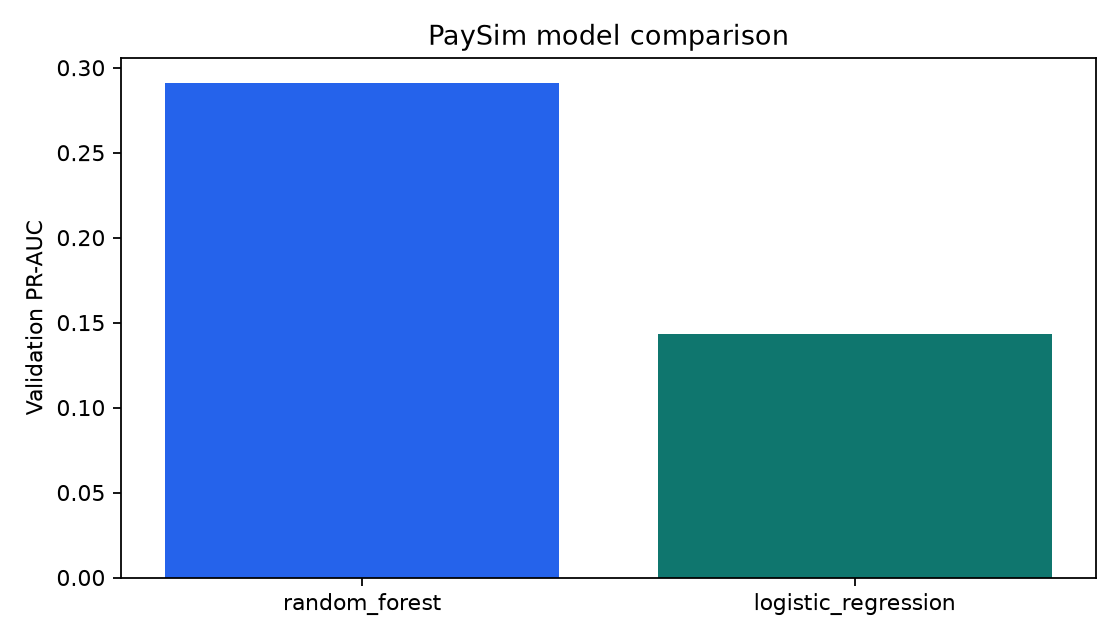
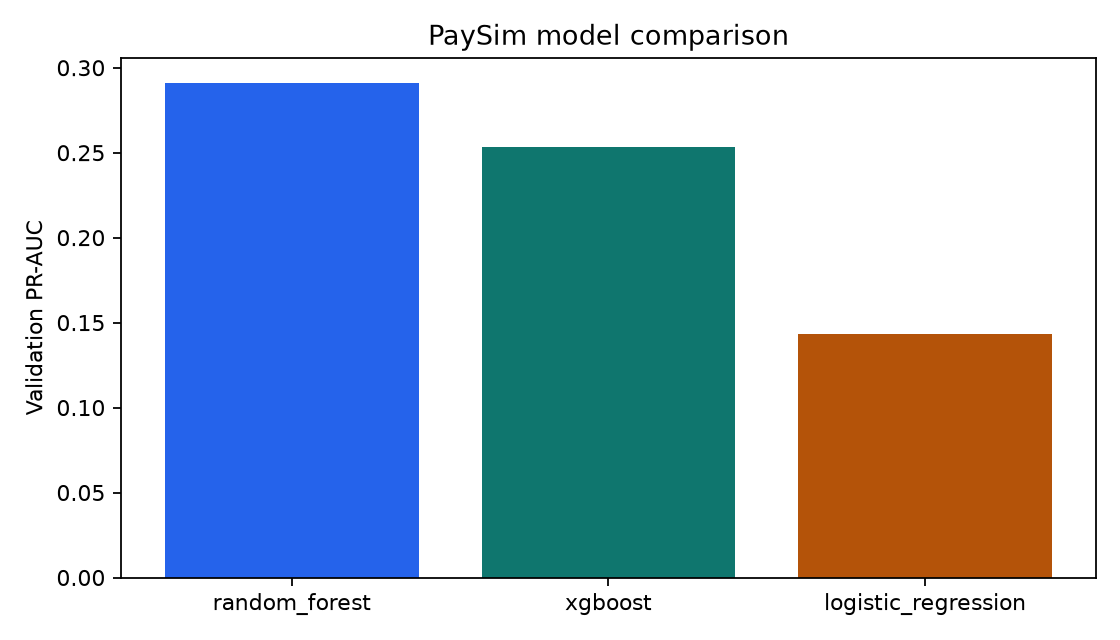
feat: compare XGBoost fraud classifier

Changed region(s): [[0.375, 0.125, 0.9375, 0.9688], [0.1875, 0.9062, 0.4062, 0.9688], [0.5, 0.9375, 0.5938, 0.9688]]

diff --git a/src/paysim_fraud/training.py b/src/paysim_fraud/training.py
@@ -15,6 +15,7 @@ from sklearn.linear_model import LogisticRegression
 from sklearn.metrics import ConfusionMatrixDisplay, PrecisionRecallDisplay
 from sklearn.pipeline import Pipeline
 from sklearn.preprocessing import OneHotEncoder, StandardScaler
+from xgboost import XGBClassifier
 
 from .config import PROJECT_ROOT, load_config
 from .data import MODEL_COLUMNS, load_raw, prepare_splits, save_processed
@@ -43,7 +44,7 @@ def build_preprocessor() -> ColumnTransformer:
     )
 
 
-def candidate_models(config: dict) -> dict[str, Pipeline]:
+def candidate_models(config: dict, positive_weight: float = 1.0) -> dict[str, Pipeline]:
     seed = int(config["random_seed"])
     return {
         "logistic_regression": Pipeline(
@@ -75,6 +76,29 @@ def candidate_models(config: dict) -> dict[str, Pipeline]:
                 ),
             ]
         ),
+        "xgboost": Pipeline(
+            [
+                ("preprocessor", build_preprocessor()),
+                (
+                    "classifier",
+                    XGBClassifier(
+                        n_estimators=int(config["xgboost_estimators"]),
+                        max_depth=int(config["xgboost_max_depth"]),
+                        learning_rate=float(config["xgboost_learning_rate"]),
+                        min_child_weight=5,
+                        subsample=0.85,
+                        colsample_bytree=0.85,
+                        reg_lambda=2.0,
+                        scale_pos_weight=positive_weight,
+                        objective="binary:logistic",
+                        eval_metric="aucpr",
+                        tree_method="hist",
+                        n_jobs=4,
+                        random_state=seed,
+                    ),
+                ),
+            ]
+        ),
     }
 
 
@@ -87,7 +111,8 @@ def fit_candidates(
     probabilities = {}
     thresholds = {}
     rows = []
-    for name, model in candidate_models(config).items():
+    positive_weight = float((y_train == 0).sum() / max(1, (y_train == 1).sum()))
+    for name, model in candidate_models(config, positive_weight).items():
         model.fit(x_train, y_train)
         probability = model.predict_proba(x_validation)[:, 1]
         threshold = best_f1_threshold(y_validation, probability)
@@ -120,7 +145,9 @@ def save_plots(
     output_dir.mkdir(parents=True, exist_ok=True)
 
     figure, axis = plt.subplots(figsize=(7, 4))
-    axis.bar(comparison["model"], comparison["pr_auc"], color=["#2563eb", "#0f766e"])
+    axis.bar(
+        comparison["model"], comparison["pr_auc"], color=["#2563eb", "#0f766e", "#b45309"]
+    )
     axis.set_ylabel("Validation PR-AUC")
     axis.set_title("PaySim model comparison")
     figure.tight_layout()
@@ -177,10 +204,14 @@ def train(config_path: str | Path) -> dict:
 
     x_train, y_train = splits["train"]
     x_validation, y_validation = splits["validation"]
-    production_model = candidate_models(config)[winner]
+    development_target = pd.concat([y_train, y_validation], ignore_index=True)
+    development_weight = float(
+        (development_target == 0).sum() / max(1, (development_target == 1).sum())
+    )
+    production_model = candidate_models(config, development_weight)[winner]
     production_model.fit(
         pd.concat([x_train, x_validation], ignore_index=True),
-        pd.concat([y_train, y_validation], ignore_index=True),
+        development_target,
     )
     bundle = {
         "model": production_model,

diff --git a/README.md b/README.md
@@ -1,8 +1,8 @@
 # PaySim Mobile-Money Fraud Detection ML
 
 This is a standalone, ML-only project for the PaySim synthetic mobile-money dataset. It uses chronological
-train/validation/test periods, compares class-weighted logistic regression and random forest models, selects
-the winner by validation PR-AUC, and evaluates it once on the held-out test period.
+train/validation/test periods, compares class-weighted logistic regression, random forest, and XGBoost,
+selects the winner by validation PR-AUC, and evaluates it once on the held-out test period.
 
 ## Dataset source
 
@@ -103,7 +103,7 @@ Python package, and the workflow entrypoints call the shared implementation unde
 After training, [open the evaluation guide](evaluation/README.md) or the `outputs/` folder. Expected files:
 
 - `dataset_profile.json`: provenance, SHA-256, row counts, fraud rate, and missing values
-- `model_comparison.csv`: validation metrics for both models
+- `model_comparison.csv`: validation metrics for all candidate models
 - `metrics.json`: selected model and held-out test metrics
 - `test_predictions.csv`: held-out labels and fraud scores
 - `model_comparison.png`
@@ -116,6 +116,8 @@ After training, [open the evaluation guide](evaluation/README.md) or the `output
 Random forest was selected by validation PR-AUC. The held-out 50,000-row test sample produced PR-AUC
 0.3069, ROC-AUC 0.8529, precision 0.8297, and recall 0.2257. See [all evaluation files](outputs/) and the
 [evaluation guide with chart previews](evaluation/README.md).
+XGBoost was evaluated as a third candidate, but its validation PR-AUC (0.2532) did not exceed the random
+forest result (0.2911), so it was not selected.
 
 ![PaySim model comparison](outputs/model_comparison.png)
 
